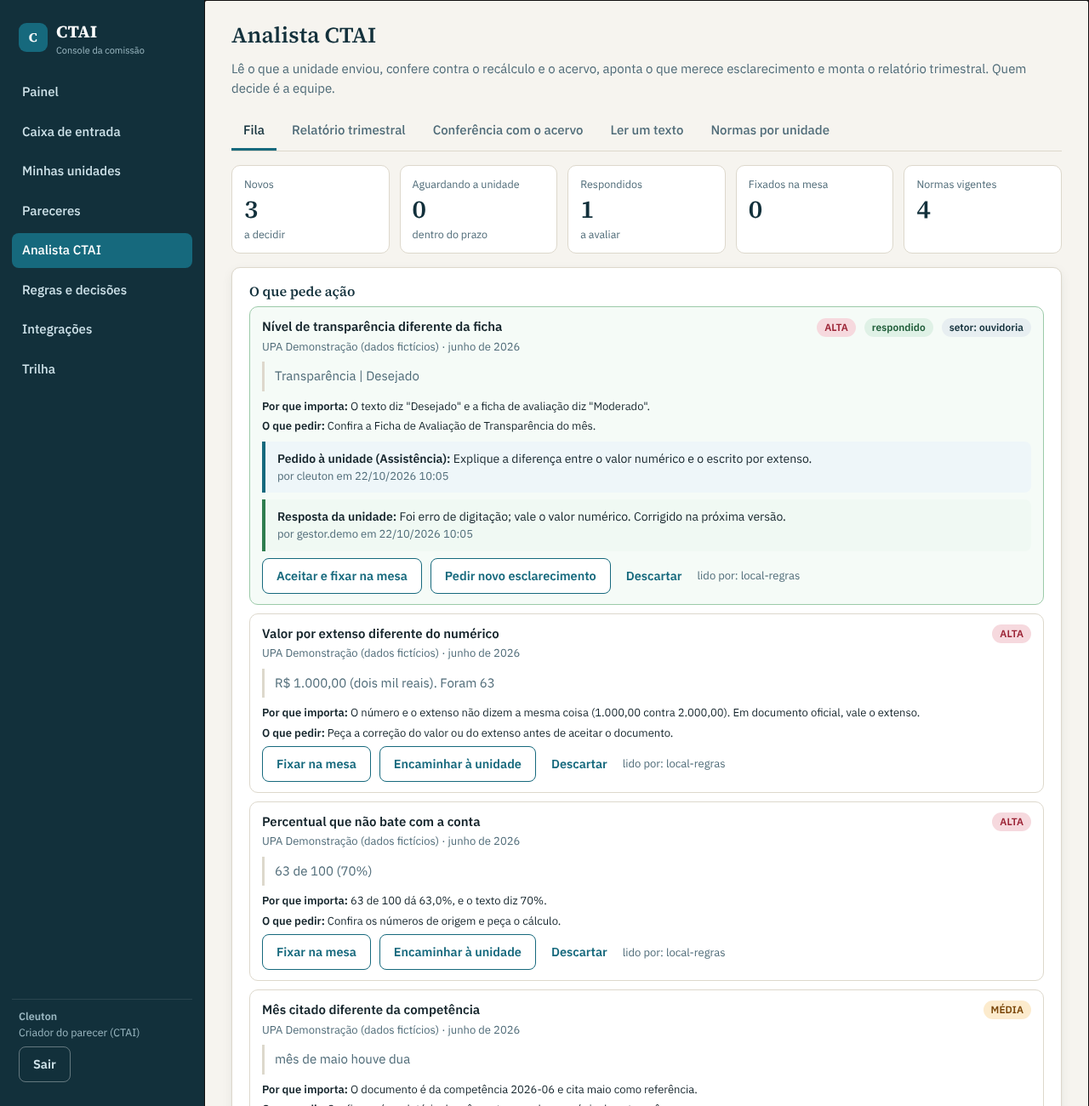
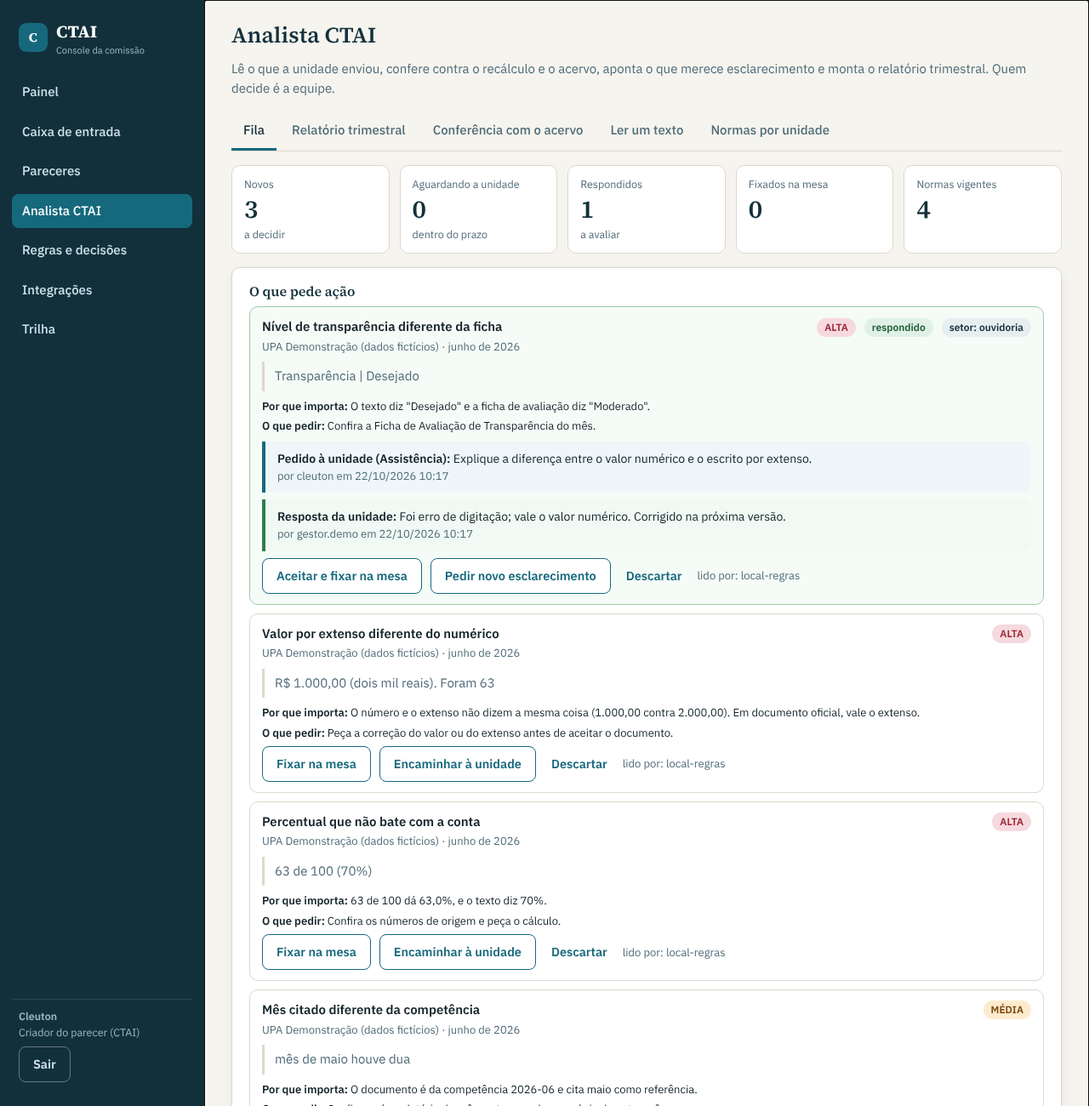
Caixa de entrada unica por unidade: itens, situacao, compartilhamento (liga/desliga) e ausencia (ativar/desativar); Minhas unidades incorporada
Claude-Session: https://claude.ai/code/session_01TePQBrxAiH7ZoxMsBLHw5s

Changed region(s): [[0.0, 0.1538, 0.1875, 0.3077]]

diff --git a/public/js/caixa.js b/public/js/caixa.js
@@ -1,6 +1,6 @@
 (function () {
   'use strict';
-  // Caixa de entrada da CTAI, ausência/substituição e "Minhas unidades".
+  // Caixa de entrada da CTAI: uma tela só, organizada por unidade (itens, situação, compartilhamento) e ausência/substituição.
   const { h, api, fmt, toast, janela, perguntar, selo, aviso, tabela, montar } = window.CTAI;
   const EU = () => window.__eu || {};
   const F = { unidade: '', tipo: '', situacao: 'pendentes' };
@@ -18,8 +18,14 @@
     } catch (_) { /* sem contador */ }
   }
 
+  F.busca = F.busca || ''; F.abertas = F.abertas || {};
+  const SIT = [['pendentes', 'Pendentes'], ['nao_lidos', 'Não lidos'], ['tratados', 'Tratados'], ['todos', 'Todos']];
+  const tomPrazo = (x) => (['vencido', 'entregue com atraso'].includes(x) ? 'alta' : (x === 'a vencer' ? 'atencao' : 'ok'));
+  const norm = (x) => String(x || '').normalize('NFD').replace(/[\u0300-\u036f]/g, '').toLowerCase();
+
+  // Caixa de entrada única: um bloco por unidade, com tudo o que chegou, a situação e quem acompanha.
   async function caixa() {
-    const d = await api('GET', '/api/caixa' + qs(F));
+    const d = await api('GET', '/api/caixa/unidades' + qs({ tipo: F.tipo, situacao: F.situacao === '' ? 'todos' : F.situacao }));
     const s = await api('GET', '/api/caixa/substituicoes');
     const rs = await api('GET', '/api/caixa/resumo');
     const refazer = () => { caixa(); atualizarContador(); };
@@ -50,51 +56,94 @@
         h('button', { class: 'leve', onclick: () => redirecionar(i) }, 'Redirecionar'), h('button', { class: 'leve', onclick: () => historico(i) }, 'Histórico')));
     const opc = (id, rot, lista, v, fn) => h('div', { class: 'campo filtro' }, h('label', { for: id }, rot), h('select', { id, onchange: (e) => fn(e.target.value) }, lista.map(([k, t]) => h('option', Object.assign({ value: k }, String(k) === String(v) ? { selected: true } : {}), t))));
 
-    // substituição
+
+    // ---- Compartilhamento: liga/desliga por colega, dentro do bloco da unidade ----
+    const compartilhar = async (u, p, ligado) => {
+      try { await api('PUT', '/api/caixa/unidades/' + encodeURIComponent(u.contrato_id) + '/compartilhar/' + p.usuario_id, { ligado }); toast(ligado ? p.nome + ' passa a acompanhar ' + u.unidade + '.' : p.nome + ' deixa de acompanhar ' + u.unidade + '.'); } catch (e) { toast(e.message, true); }
+      refazer();
+    };
+    const interruptor = (u, p) => {
+      const ligado = u.equipe.includes(p.usuario_id);
+      const bloqueado = !u.pode_compartilhar || (!p.tem_carteira && !ligado);
+      const i = h('input', { type: 'checkbox', role: 'switch', class: 'cx-compart', 'data-pessoa': p.usuario_id, disabled: bloqueado, onchange: (e) => compartilhar(u, p, e.target.checked) });
+      i.checked = ligado;
+      return h('label', { class: 'ck interruptor' + (bloqueado ? ' mudo' : '') }, i, ' ', p.nome + (p.usuario_id === d.eu ? ' (você)' : ''), !p.tem_carteira ? h('span', { class: 'peq' }, ' · vê todas, sem carteira') : null);
+    };
+
+    // ---- Bloco de uma unidade ----
+    const bloco = (u) => {
+      const abertoPadrao = u.nao_lidos > 0;
+      const aberto = F.abertas[u.contrato_id] === undefined ? abertoPadrao : F.abertas[u.contrato_id];
+      const pz = u.pior_prazo;
+      const det = h('details', { class: 'cartao un-bloco', 'data-contrato': u.contrato_id },
+        h('summary', null, h('span', { class: 'un-nome' }, h('strong', null, u.unidade), h('span', { class: 'mudo peq' }, ' ' + ([u.tipo, u.municipio].filter(Boolean).join(' · ')))),
+          h('span', { class: 'un-selos' }, selo(u.fase, ''), pz ? selo('Prazo ' + pz.canal + ' ' + pz.situacao, tomPrazo(pz.situacao)) : null, u.sem_gestor ? selo('aguardando gestor', 'atencao') : null,
+            u.nao_lidos ? selo(u.nao_lidos + ' não lido(s)', 'alta') : null, selo(u.itens.length + ' item(ns)', u.itens.length ? 'atencao' : 'ok'))),
+        h('div', { class: 'un-corpo' },
+          h('div', { class: 'linha espaco' }, h('p', { class: 'mudo peq', style: 'margin:0' }, 'Última entrega: ' + (u.ultima_entrega ? fmt.data(u.ultima_entrega) : 'nenhuma ainda') + ' · Achados abertos: ' + u.achados.abertos + ' · Divergências abertas: ' + u.divergencias_abertas),
+            h('a', { class: 'btn sec', href: u.link }, 'Abrir conferência')),
+          u.itens.length ? u.itens.map(card) : h('p', { class: 'mudo' }, 'Nada neste filtro para esta unidade.'),
+          h('div', { class: 'compart' }, h('strong', null, 'Quem acompanha esta unidade'),
+            h('div', { class: 'interruptores' }, d.pessoas.map((p) => interruptor(u, p))),
+            u.pode_compartilhar ? null : h('p', { class: 'mudo peq', style: 'margin:4px 0 0' }, 'Só quem acompanha a unidade (ou a superintendência) muda o compartilhamento.'))));
+      if (aberto) det.open = true;
+      det.addEventListener('toggle', () => { F.abertas[u.contrato_id] = det.open; });
+      return det;
+    };
+
+    // ---- Ausência / substituição (liga e desliga) ----
     const pessoas = s.pessoas;
     const ehSuper = ['superintendente', 'admin'].includes(EU().perfil);
     const hoje = new Date().toISOString().slice(0, 10);
-    const f = { de: h('select', { id: 'sb-de' }, pessoas.map((p) => h('option', Object.assign({ value: p.usuario_id }, p.usuario_id === EU().usuario_id ? { selected: true } : {}), p.nome))),
-      para: h('select', { id: 'sb-para' }, pessoas.filter((p) => p.usuario_id !== EU().usuario_id).map((p) => h('option', { value: p.usuario_id }, p.nome))),
-      desde: h('input', { type: 'date', id: 'sb-desde', value: hoje }), ate: h('input', { type: 'date', id: 'sb-ate' }), motivo: h('input', { type: 'text', id: 'sb-motivo', placeholder: 'Ex.: férias' }) };
-    const criarSub = async () => {
-      try { await api('POST', '/api/caixa/substituicoes', { de_usuario_id: ehSuper ? Number(f.de.value) : undefined, para_usuario_id: Number(f.para.value), desde: f.desde.value, ate: f.ate.value, motivo: f.motivo.value }); toast('Caixa redirecionada.'); refazer(); } catch (e) { toast(e.message, true); }
+    const minhas = s.substituicoes.filter((x) => ehSuper || x.de_usuario_id === EU().usuario_id);
+    const ativas = minhas.filter((x) => ['em vigor', 'agendada'].includes(x.situacao));
+    const ativarAusencia = async (modelo) => {
+      const de = h('select', { id: 'sb-de' }, pessoas.map((p) => h('option', Object.assign({ value: p.usuario_id }, p.usuario_id === (modelo ? modelo.de_usuario_id : EU().usuario_id) ? { selected: true } : {}), p.nome)));
+      const para = h('select', { id: 'sb-para' }, pessoas.filter((p) => p.usuario_id !== EU().usuario_id || ehSuper).map((p) => h('option', Object.assign({ value: p.usuario_id }, modelo && p.usuario_id === modelo.para_usuario_id ? { selected: true } : {}), p.nome)));
+      const desde = h('input', { type: 'date', id: 'sb-desde', value: modelo && modelo.desde > hoje ? modelo.desde : hoje }), ate = h('input', { type: 'date', id: 'sb-ate', value: modelo ? modelo.ate : '' });
+      const motivo = h('input', { type: 'text', id: 'sb-motivo', placeholder: 'Ex.: férias', value: modelo ? (modelo.motivo || '') : '' });
+      const campo = (id, r, el) => h('div', { class: 'campo' }, h('label', { for: id }, r), el);
+      const r = await janela('Ativar ausência', h('div', null, h('p', { class: 'mudo peq' }, 'Os itens novos vão para o substituto, marcados "em substituição de ...", e ele(a) passa a abrir as unidades durante o período.'),
+        ehSuper ? campo('sb-de', 'Caixa de', de) : null, campo('sb-para', 'Substituto', para), campo('sb-desde', 'De', desde), campo('sb-ate', 'Até', ate), campo('sb-motivo', 'Motivo', motivo)),
+        [{ rotulo: 'Cancelar', valor: null, sec: true }, { rotulo: 'Ativar', valor: 'ok' }]);
+      if (r !== 'ok') return;
+      try { await api('POST', '/api/caixa/substituicoes', { de_usuario_id: ehSuper ? Number(de.value) : undefined, para_usuario_id: Number(para.value), desde: desde.value, ate: ate.value, motivo: motivo.value }); toast('Ausência ativada.'); refazer(); } catch (e) { toast(e.message, true); }
     };
-    montar(h('div', { class: 'topo' }, h('div', null, h('h1', null, 'Caixa de entrada'), h('p', null, 'Tudo que chegou das unidades e o que está a vencer, nas unidades da sua carteira. Quem divide a unidade com você recebe os mesmos itens; o primeiro que tratar marca para todos.'))),
+    const desativar = async (x) => { try { await api('DELETE', '/api/caixa/substituicoes/' + x.subst_id); toast('Ausência desativada.'); refazer(); } catch (e) { toast(e.message, true); } };
+    const painelAusencia = h('div', { class: 'cartao', id: 'cx-subst', style: 'padding:10px 14px' },
+      h('div', { class: 'linha espaco' }, h('div', null, h('strong', null, 'Ausência / substituição '), ativas.length ? selo('ativa', 'ok') : selo('desligada', '')),
+        ativas.length ? null : h('button', { class: 'sec', id: 'sb-ativar', onclick: () => ativarAusencia(null) }, 'Ativar ausência')),
+      ativas.map((x) => h('div', { class: 'linha espaco', style: 'margin-top:8px' }, h('span', { class: 'peq' }, (ehSuper ? x.de_nome + ' → ' : 'Caixa → ') + x.para_nome + ' · ' + dataBr(x.desde) + ' a ' + dataBr(x.ate) + (x.motivo ? ' · ' + x.motivo : '')),
+        h('button', { class: 'sec', onclick: () => desativar(x) }, 'Desativar'))),
+      minhas.filter((x) => !['em vigor', 'agendada'].includes(x.situacao)).slice(0, 3).map((x) => h('div', { class: 'linha espaco mudo peq', style: 'margin-top:6px' }, h('span', null, (ehSuper ? x.de_nome + ' → ' : '') + x.para_nome + ' · ' + dataBr(x.desde) + ' a ' + dataBr(x.ate) + ' · ' + x.situacao),
+        x.ate >= hoje && !ativas.length ? h('button', { class: 'leve', onclick: () => ativarAusencia(x) }, 'Reativar') : null)));
+
+    // ---- Lista de unidades (com busca na hora) ----
+    const lista = h('div', { id: 'cx-lista' });
+    const desenharLista = () => {
+      const q = norm(F.busca);
+      const un = d.unidades.filter((u) => !q || norm(u.unidade + ' ' + (u.municipio || '')).includes(q));
+      const vazio = d.geral.length === 0 && !un.length;
+      lista.replaceChildren(...un.map(bloco).concat([
+        d.geral.length && !q ? h('div', { class: 'cartao' }, h('h3', null, 'Geral (sem unidade)'), d.geral.map(card)) : null,
+        vazio ? h('div', { class: 'cartao' }, h('p', { class: 'mudo' }, 'Nenhuma unidade encontrada.')) : null].filter(Boolean)));
+    };
+    const busca = h('input', { type: 'search', id: 'cx-busca', placeholder: 'Buscar unidade ou município…', value: F.busca, 'aria-label': 'Buscar unidade', oninput: (e) => { F.busca = e.target.value; desenharLista(); } });
+    desenharLista();
+
+    montar(h('div', { class: 'topo' }, h('div', null, h('h1', null, 'Caixa de entrada'), h('p', null, d.todas ? 'Tudo que chegou das unidades, por unidade. Você vê todas (sem carteira definida).' : 'Tudo que chegou das unidades da sua carteira, reunido por unidade. Quem divide a unidade com você recebe os mesmos itens; o primeiro que tratar marca para todos.'))),
       h('div', { class: 'cartao cx-resumo', id: 'cx-resumo', style: 'padding:10px 14px' }, h('div', { class: 'linha', style: 'gap:18px;flex-wrap:wrap' },
         faixa('nao_lidos', rs.naoLidos, 'não lidos', rs.naoLidos ? 'atencao' : '', '', 'nao_lidos'), faixa('prazos', rs.prazos_vencidos, 'prazo(s) vencido(s)', rs.prazos_vencidos ? 'alta' : '', 'prazo_vencido'),
         faixa('prazos2', rs.prazos_a_vencer, 'a vencer', rs.prazos_a_vencer ? 'atencao' : '', 'prazo_vencer'), faixa('resp', rs.respostas, 'achado(s) com resposta', rs.respostas ? 'atencao' : '', 'resposta'),
         faixa('semg', rs.sem_gestor, 'unidade(s) sem gestor', rs.sem_gestor ? 'atencao' : '', 'sem_gestor'))),
       h('div', { class: 'filtros cartao' },
-        opc('cx-f-un', 'Unidade', [['', 'Todas']].concat(d.unidades.map((u) => [u.contrato_id, u.unidade])), F.unidade, (v) => { F.unidade = v; caixa(); }),
+        h('div', { class: 'campo filtro' }, h('label', { for: 'cx-busca' }, 'Unidade'), busca),
         opc('cx-f-tipo', 'Tipo', [['', 'Todos']].concat(Object.entries(d.tipos)), F.tipo, (v) => { F.tipo = v; caixa(); }),
-        opc('cx-f-sit', 'Situação', [['pendentes', 'Pendentes'], ['nao_lidos', 'Não lidos'], ['tratados', 'Tratados'], ['', 'Todos']], F.situacao, (v) => { F.situacao = v; caixa(); }),
+        opc('cx-f-sit', 'Situação', SIT, F.situacao === '' ? 'todos' : F.situacao, (v) => { F.situacao = v; caixa(); }),
         d.contagem.naoLidos ? h('button', { class: 'sec', id: 'cx-todos-lidos', onclick: async () => { await api('POST', '/api/caixa/lidos', {}); refazer(); } }, 'Marcar todos como lidos') : null),
-      h('div', { class: 'kpis' }, h('div', { class: 'kpi' + (d.contagem.naoLidos ? ' atencao' : '') }, h('div', { class: 'r' }, 'Não lidos'), h('div', { class: 'num-grande' }, String(d.contagem.naoLidos))), h('div', { class: 'kpi' }, h('div', { class: 'r' }, 'Pendentes'), h('div', { class: 'num-grande' }, String(d.contagem.pendentes)))),
-      h('div', { id: 'cx-lista' }, d.itens.length ? d.itens.map(card) : h('div', { class: 'cartao' }, h('p', { class: 'mudo' }, 'Nada por aqui para este filtro.'))),
-      h('div', { class: 'cartao', id: 'cx-subst' }, h('h2', { style: 'margin-top:0' }, 'Ausência ou substituição'),
-        h('p', { class: 'mudo peq' }, 'Redireciona a caixa para outra pessoa por um período. Os itens novos vão para o substituto, marcados "em substituição de ' + (EU().nome || 'você') + '", e ele(a) passa a abrir as unidades durante o período.'),
-        h('div', { class: 'duas' }, ehSuper ? h('div', { class: 'campo' }, h('label', { for: 'sb-de' }, 'Caixa de'), f.de) : null, h('div', { class: 'campo' }, h('label', { for: 'sb-para' }, 'Substituto'), f.para),
-          h('div', { class: 'campo' }, h('label', { for: 'sb-desde' }, 'De'), f.desde), h('div', { class: 'campo' }, h('label', { for: 'sb-ate' }, 'Até'), f.ate), h('div', { class: 'campo' }, h('label', { for: 'sb-motivo' }, 'Motivo'), f.motivo)),
-        h('button', { id: 'sb-criar', onclick: criarSub }, 'Redirecionar a caixa'),
-        s.substituicoes.length ? tabela([{ t: 'Caixa de' }, { t: 'Substituto' }, { t: 'Período' }, { t: 'Situação' }, { t: '' }], s.substituicoes.map((x) => [x.de_nome, x.para_nome, dataBr(x.desde) + ' a ' + dataBr(x.ate), selo(x.situacao, x.situacao === 'em vigor' ? 'ok' : ''),
-          ['em vigor', 'agendada'].includes(x.situacao) ? h('button', { class: 'leve', onclick: async () => { try { await api('DELETE', '/api/caixa/substituicoes/' + x.subst_id); refazer(); } catch (e) { toast(e.message, true); } } }, 'Cancelar') : ''])) : null));
+      painelAusencia, lista);
     atualizarContador();
   }
 
-  async function minhas() {
-    const d = await api('GET', '/api/caixa/minhas-unidades');
-    const tomPrazo = (s) => (['vencido', 'entregue com atraso'].includes(s) ? 'alta' : (s === 'a vencer' ? 'atencao' : 'ok'));
-    montar(h('div', { class: 'topo' }, h('div', null, h('h1', null, 'Minhas unidades'), h('p', null, d.todas ? 'Você vê todas as unidades (sem carteira definida).' : 'Unidades da sua carteira. Clique para abrir.'))),
-      d.unidades.length ? h('div', { class: 'unidades-grid', id: 'mu-lista' }, d.unidades.map((u) => {
-        const p = u.pior_prazo;
-        return h('a', { class: 'cartao un-card', href: u.link, 'data-contrato': u.contrato_id, style: 'text-decoration:none;color:inherit;display:block' },
-          h('h3', { style: 'margin:0' }, u.unidade), h('p', { class: 'mudo peq' }, [u.tipo, u.municipio].filter(Boolean).join(' · ') || ' '),
-          h('div', null, selo(u.fase, ''), ' ', p ? selo('Prazo ' + p.canal + ' ' + p.situacao, tomPrazo(p.situacao)) : null, ' ', u.sem_gestor ? selo('aguardando gestor', 'atencao') : null),
-          h('p', { class: 'peq' }, 'Pendências na caixa: ', h('strong', null, String(u.pendencias_caixa)), ' · Achados abertos: ', h('strong', null, String(u.achados.abertos)), ' · Divergências abertas: ', h('strong', null, String(u.divergencias_abertas))),
-          h('p', { class: 'mudo peq' }, 'Última entrega: ' + (u.ultima_entrega ? fmt.data(u.ultima_entrega) : 'nenhuma ainda')));
-      })) : h('div', { class: 'cartao' }, h('p', { class: 'mudo' }, 'Nenhuma unidade na sua carteira.')));
-  }
-
-  window.CTAI_CAIXA = { rotas: [['/caixa', caixa], ['/minhas-unidades', minhas]], atualizarContador };
+  window.CTAI_CAIXA = { rotas: [['/caixa', caixa], ['/minhas-unidades', () => { location.replace('#/caixa'); }]], atualizarContador };
 })();

diff --git a/server/caixa.js b/server/caixa.js
@@ -306,6 +306,52 @@ function minhasUnidades(db, u) {
   return { unidades, trimestre: p.trimestre, todas: !perm };
 }
 
+// ---------- Visão única: caixa de entrada organizada por unidade ----------
+// Cada unidade da carteira reúne o que chegou (itens), a situação (fase, prazos, achados) e quem a acompanha.
+function visaoUnidades(db, u, f) {
+  f = f || {};
+  const base = minhasUnidades(db, u);
+  const lista = listar(db, u, { tipo: f.tipo, situacao: f.situacao === undefined ? 'pendentes' : f.situacao });
+  const porUn = {}, geral = [];
+  for (const i of lista.itens) { if (i.contrato_id) (porUn[i.contrato_id] = porUn[i.contrato_id] || []).push(i); else geral.push(i); }
+  const meus = CART.doUsuario(db, u.usuario_id);
+  const perm = permitido(db, u);
+  const pessoas = db.all("SELECT usuario_id, nome, login, perfil FROM usuarios WHERE ativo = 1 AND perfil IN ('criador','colega') ORDER BY nome")
+    .map((p) => Object.assign(p, { tem_carteira: CART.doUsuario(db, p.usuario_id).length > 0 }));
+  const unidades = base.unidades.map((x) => {
+    const itens = porUn[x.contrato_id] || [];
+    const equipe = CART.responsaveis(db, x.contrato_id).map((r) => r.usuario_id);
+    return Object.assign({}, x, { itens, nao_lidos: itens.filter((i) => !i.lido && !i.tratado).length, urgencia: itens.reduce((m, i) => Math.max(m, i.urgencia || 0), 0), equipe,
+      pode_compartilhar: ehSuper(u) || !perm || meus.includes(x.contrato_id) });
+  }).sort((a, b) => (b.urgencia - a.urgencia) || (b.pendencias_caixa - a.pendencias_caixa) || a.unidade.localeCompare(b.unidade));
+  return { unidades, geral, contagem: lista.contagem, tipos: lista.tipos, pessoas, todas: base.todas, eu: u.usuario_id };
+}
+
+// Liga ou desliga o compartilhamento de uma unidade com um colega (entra ou sai da carteira dele). Fica na trilha e no histórico da carteira.
+function compartilhar(db, u, contratoId, usuarioId, ligado) {
+  const un = db.get('SELECT contrato_id, unidade FROM contratos WHERE contrato_id = ?', contratoId);
+  if (!un) throw erro(404, 'Unidade não encontrada.');
+  const perm = permitido(db, u);
+  if (!ehSuper(u) && perm && !CART.doUsuario(db, u.usuario_id).includes(contratoId)) throw erro(403, 'Só quem acompanha a unidade pode mudar o compartilhamento dela.');
+  const alvo = db.get('SELECT * FROM usuarios WHERE usuario_id = ? AND ativo = 1', Number(usuarioId));
+  if (!alvo || !CART.ELEGIVEIS.includes(alvo.perfil)) throw erro(400, 'Escolha um criador ou colega ativo da CTAI.');
+  const atuais = CART.doUsuario(db, alvo.usuario_id);
+  if (ligado && !atuais.length) throw erro(400, alvo.nome + ' ainda não tem carteira e vê todas as unidades. Defina a carteira dessa pessoa em Gestão CTAI.');
+  const ja = atuais.includes(contratoId);
+  if (!!ligado === ja) return { ok: true, sem_mudanca: true };
+  if (!ligado && !ehSuper(u) && CART.responsaveis(db, contratoId).length <= 1) throw erro(400, 'A unidade ficaria sem ninguém. Inclua outra pessoa antes de retirar esta.');
+  const novos = ligado ? atuais.concat([contratoId]) : atuais.filter((c) => c !== contratoId);
+  db.tx(() => {
+    CART.definir(db, u.login, alvo.usuario_id, novos, 'Compartilhamento pelo analista (' + u.login + ')');
+    if (ligado) {
+      db.run('INSERT OR IGNORE INTO caixa_destinos (item_id, usuario_id) SELECT item_id, ? FROM caixa_itens WHERE contrato_id = ? AND tratado_por IS NULL', alvo.usuario_id, contratoId);
+      criar(db, { chave: 'compart:' + contratoId + ':' + alvo.usuario_id + ':' + Date.now(), tipo: 'redirecionado', contrato_id: contratoId, titulo: 'Unidade compartilhada com você: ' + un.unidade,
+        texto: u.nome + ' incluiu você no acompanhamento desta unidade. Os itens pendentes dela já estão na sua caixa.', link: '#/caixa', destinos: [{ usuario_id: alvo.usuario_id }] }, u.login);
+    }
+  });
+  return { ok: true };
+}
+
 // ---------- Entregas por carteira (Gestão CTAI) ----------
 const diasNaoLido = (db) => Math.max(1, Number(CART.cfg(db, 'caixa_dias_nao_lido', '3')) || 3);
 function entregas(db, filtro) {
@@ -364,5 +410,5 @@ function tempos(db, usuarioId, de, ate, contrato) {
 // Ponto de extensão (aviso por e-mail): nada é enviado hoje. Para ligar no futuro, registre aqui uma função que receba
 // { item_id, tipo, unidade, titulo, destinatarios:[{login,nome}] } — ela é chamada depois que o item é criado.
 
-module.exports = { TIPOS, PERFIS_CAIXA, criar, eventoEnvio, eventoResposta, eventoMinuta, sincronizar, listar, resumo, contador, detalhe, marcarLido, marcarTodosLidos, tratar, reabrir, redirecionarItem,
+module.exports = { visaoUnidades, compartilhar, TIPOS, PERFIS_CAIXA, criar, eventoEnvio, eventoResposta, eventoMinuta, sincronizar, listar, resumo, contador, detalhe, marcarLido, marcarTodosLidos, tratar, reabrir, redirecionarItem,
   criarSubstituicao, cancelarSubstituicao, listarSubstituicoes, minhasUnidades, entregas, tempos, diasNaoLido, destinatariosDaUnidade, avisos };

diff --git a/test/caixa.test.js b/test/caixa.test.js
@@ -201,3 +201,31 @@ test('painel reduzido: /api/meta informa a configuração; resumo da caixa respe
   assert.ok(r.prazos_vencidos >= 1);
   assert.equal((await gestor.get('/api/caixa/resumo')).status, 403);
 });
+
+test('caixa única por unidade: itens agrupados, equipe e compartilhamento ligado/desligado pelo analista', async () => {
+  const v1 = (await colega1.get('/api/caixa/unidades')).json;
+  const demo = v1.unidades.find((u) => u.contrato_id === DEMO);
+  assert.ok(demo, 'a unidade da carteira aparece como bloco');
+  assert.ok(demo.itens.length >= 1 && demo.itens.every((i) => i.contrato_id === DEMO), 'os itens ficam dentro da unidade');
+  assert.deepEqual([...demo.equipe].sort(), [ids.cleuton, ids.colega1].sort());
+  assert.equal(demo.pode_compartilhar, true);
+  assert.equal((await colega2.get('/api/caixa/unidades')).json.unidades.some((u) => u.contrato_id === DEMO), false, 'quem não acompanha não vê o bloco');
+
+  const rota = (c, ligado) => c.put('/api/caixa/unidades/' + DEMO + '/compartilhar/' + ids.colega2, { ligado });
+  assert.equal((await rota(colega2, true)).status, 403, 'quem não acompanha a unidade não mexe no compartilhamento dela');
+  assert.equal((await rota(colega1, true)).status, 200);
+  const dep = (await colega2.get('/api/caixa/unidades')).json;
+  const blocoC2 = dep.unidades.find((u) => u.contrato_id === DEMO);
+  assert.ok(blocoC2 && blocoC2.itens.length >= 1, 'o colega incluído já recebe os itens pendentes');
+  assert.ok(dep.geral.concat(blocoC2.itens).some((i) => /compartilhada com você/i.test(i.titulo)) || (await itens(colega2)).itens.some((i) => /compartilhada com você/i.test(i.titulo)), 'recebe o aviso do compartilhamento');
+  assert.ok(S.db.get("SELECT 1 FROM carteira WHERE usuario_id = ? AND contrato_id = ? AND ate IS NULL AND motivo LIKE 'Compartilhamento pelo analista%'", ids.colega2, DEMO), 'fica no histórico da carteira');
+  assert.equal((await rota(colega1, false)).status, 200);
+  assert.equal((await colega2.get('/api/caixa/unidades')).json.unidades.some((u) => u.contrato_id === DEMO), false, 'desligado, o bloco some');
+
+  // não deixa a unidade sem ninguém, e quem sai perde o controle dela
+  const sai = (c, quem) => c.put('/api/caixa/unidades/' + DEMO + '/compartilhar/' + quem, { ligado: false });
+  assert.equal((await sai(cleuton, ids.colega1)).status, 200);
+  assert.equal((await sai(colega1, ids.cleuton)).status, 403);
+  assert.equal((await sai(cleuton, ids.cleuton)).status, 400, 'a unidade ficaria sem ninguém');
+  assert.equal((await cleuton.put('/api/caixa/unidades/' + DEMO + '/compartilhar/' + ids.colega1, { ligado: true })).status, 200, 'volta ao estado anterior');
+});

diff --git a/public/css/app.css b/public/css/app.css
@@ -45,7 +45,7 @@ button:disabled{opacity:.5;cursor:not-allowed}
 .lateral button.sec{background:transparent;color:#cfe3ea;border-color:rgba(255,255,255,.35)}
 button:focus-visible,a:focus-visible,input:focus-visible,select:focus-visible,textarea:focus-visible{outline:3px solid var(--ciano);outline-offset:1px}
 label{display:block;font-weight:500;margin-bottom:4px}
-input[type=text],input[type=password],input[type=number],input[type=date],select,textarea{width:100%;padding:9px 11px;border:1px solid #bfb9aa;border-radius:8px;background:#fff}
+input[type=text],input[type=password],input[type=number],input[type=date],input[type=search],select,textarea{width:100%;padding:9px 11px;border:1px solid #bfb9aa;border-radius:8px;background:#fff}
 textarea{min-height:90px;resize:vertical}
 .campo{margin-bottom:14px}
 .campo .ajuda{font-size:12.5px;color:var(--cinza);margin-top:3px}
@@ -139,3 +139,18 @@ td .linha{flex-wrap:nowrap;white-space:nowrap}
 .lista-un{max-height:230px;overflow:auto;border:1px solid var(--borda);border-radius:8px;padding:4px 10px;background:#fff}
 .lista-un label.ck{margin:0}
 .seletor-un input[type=search]{width:100%;padding:9px 11px;border:1px solid #bfb9aa;border-radius:8px;background:#fff;margin-bottom:6px}
+/* Caixa de entrada única: um bloco por unidade */
+.un-bloco{padding:0}
+.un-bloco>summary{list-style:none;cursor:pointer;display:flex;justify-content:space-between;align-items:center;gap:12px;flex-wrap:wrap;padding:12px 18px}
+.un-bloco>summary::-webkit-details-marker{display:none}
+.un-bloco>summary::before{content:"▸";color:var(--acento);margin-right:8px;font-size:14px}
+.un-bloco[open]>summary::before{content:"▾"}
+.un-bloco>summary{display:flex}
+.un-bloco .un-nome{flex:1 1 280px}
+.un-bloco .un-selos{display:flex;gap:6px;flex-wrap:wrap;align-items:center}
+.un-bloco .un-corpo{padding:0 18px 16px;border-top:1px solid var(--borda)}
+.un-bloco .un-corpo>*{margin-top:10px}
+.un-bloco .cx-item{box-shadow:none;margin-bottom:8px}
+.compart{border-top:1px dashed var(--borda);padding-top:10px}
+.interruptores{display:flex;flex-wrap:wrap;gap:4px 18px;margin-top:4px}
+label.interruptor{display:inline-block;margin:0;padding:4px 0}

diff --git a/test/e2e/run.js b/test/e2e/run.js
@@ -315,11 +315,14 @@ let base;
     await colegaCart.setViewportSize({ width: 1280, height: 1500 }); await limpa(colegaCart); await colegaCart.screenshot({ path: path.join(CAP, '27-caixa-entrada.png') });
     await colegaCart.locator('.cx-tratar').first().click(); await colegaCart.fill('#perg-campo', 'Conferido'); await colegaCart.click('dialog button:has-text("Confirmar")');
     await colegaCart.waitForFunction(() => document.querySelectorAll('.cx-item').length >= 0, null, { timeout: 5000 }); await colegaCart.waitForTimeout(500);
-    await colegaCart.goto(colegaCart.url().split('#')[0] + '#/minhas-unidades'); await colegaCart.waitForSelector('#mu-lista .un-card', { timeout: 8000 });
-    await colegaCart.setViewportSize({ width: 1280, height: 900 }); await limpa(colegaCart); await colegaCart.screenshot({ path: path.join(CAP, '28-minhas-unidades.png') });
+    await colegaCart.goto(colegaCart.url().split('#')[0] + '#/minhas-unidades'); await colegaCart.waitForSelector('#cx-lista .un-bloco', { timeout: 8000 });
+    assert.match(colegaCart.url(), /#\/caixa$/, 'o endereço antigo de Minhas unidades leva à caixa única');
+    assert.ok(await colegaCart.locator('.un-bloco .interruptor').count() >= 1, 'cada unidade mostra quem a acompanha');
+    assert.ok(await colegaCart.locator('#sb-ativar').count() === 1, 'ausência desligada com botão para ativar');
+    await colegaCart.setViewportSize({ width: 1280, height: 1000 }); await limpa(colegaCart); await colegaCart.screenshot({ path: path.join(CAP, '28-caixa-por-unidade.png') });
     await ir(sup, '#/gestao/entregas', '#en-pdf'); await sup.waitForSelector('[data-analista="colega1"]', { timeout: 8000 });
     await sup.setViewportSize({ width: 1280, height: 1100 }); await limpa(sup); await sup.screenshot({ path: path.join(CAP, '29-gestao-entregas.png') });
-    log('caixa de entrada, minhas unidades e entregas por carteira');
+    log('caixa de entrada única por unidade e entregas por carteira');
     // Tela inicial por perfil e configuração de volta (CTAI_PAINEL_ANALISTA)
     CFG.painelAnalista = false;
     const an = await entrar(browser, 'colega1', 1280, true); paginas.push(an);

diff --git a/public/js/ctai.js b/public/js/ctai.js
@@ -560,7 +560,7 @@
     const meta0 = await api('GET', '/api/meta').catch(() => null);
     window.__semPainel = !!(me0 && ['criador', 'colega'].includes(me0.usuario.perfil) && meta0 && !meta0.painelAnalista);
     window.__soGestao = me0 && ['superintendente', 'admin'].includes(me0.usuario.perfil) ? [{ href: '#/gestao', rotulo: 'Gestão CTAI' }] : [];
-    EU = await casca({ titulo: 'CTAI', subtitulo: 'Console da comissão', perfis: ['admin', 'criador', 'colega', 'superintendente'], itens: (window.__semPainel ? [] : [{ href: '#/', rotulo: 'Painel' }]).concat([{ href: '#/caixa', rotulo: 'Caixa de entrada' }, { href: '#/minhas-unidades', rotulo: 'Minhas unidades' }, { href: '#/pareceres', rotulo: 'Pareceres' }, { href: '#/analista', rotulo: 'Analista CTAI' }, { href: '#/regras', rotulo: 'Regras e decisões' }, { href: '#/integracoes', rotulo: 'Integrações' }, { href: '#/trilha', rotulo: 'Trilha' }]).concat(window.__soGestao || []) });
+    EU = await casca({ titulo: 'CTAI', subtitulo: 'Console da comissão', perfis: ['admin', 'criador', 'colega', 'superintendente'], itens: (window.__semPainel ? [] : [{ href: '#/', rotulo: 'Painel' }]).concat([{ href: '#/caixa', rotulo: 'Caixa de entrada' }, { href: '#/pareceres', rotulo: 'Pareceres' }, { href: '#/analista', rotulo: 'Analista CTAI' }, { href: '#/regras', rotulo: 'Regras e decisões' }, { href: '#/integracoes', rotulo: 'Integrações' }, { href: '#/trilha', rotulo: 'Trilha' }]).concat(window.__soGestao || []) });
     if (!EU) return;
     window.__eu = EU;
     window.CTAI_CAIXA.atualizarContador(); setInterval(() => window.CTAI_CAIXA.atualizarContador(), 60000);

diff --git a/server/routes/caixa.js b/server/routes/caixa.js
@@ -14,6 +14,8 @@ module.exports = (db) => {
   r.get('/', antes, (req, res) => res.json(CX.listar(db, req.usuario, { unidade: req.query.unidade, tipo: req.query.tipo, situacao: req.query.situacao })));
   r.get('/resumo', antes, (req, res) => res.json(CX.resumo(db, req.usuario)));
   r.get('/contador', antes, (req, res) => res.json(CX.contador(db, req.usuario)));
+  r.get('/unidades', antes, (req, res) => res.json(CX.visaoUnidades(db, req.usuario, { tipo: req.query.tipo, situacao: req.query.situacao })));
+  r.put('/unidades/:contrato/compartilhar/:usuario', (req, res) => res.json(CX.compartilhar(db, req.usuario, req.params.contrato, req.params.usuario, !!(req.body && req.body.ligado))));
   r.get('/minhas-unidades', (req, res) => res.json(CX.minhasUnidades(db, req.usuario)));
   r.get('/substituicoes', (req, res) => res.json({ substituicoes: CX.listarSubstituicoes(db, req.usuario), pessoas: db.all("SELECT usuario_id, nome, login, perfil FROM usuarios WHERE ativo = 1 AND perfil IN ('criador','colega','superintendente','admin') ORDER BY nome") }));
   r.post('/substituicoes', (req, res) => res.json({ subst_id: CX.criarSubstituicao(db, req.usuario, req.body || {}) }));

diff --git a/public/sw.js b/public/sw.js
@@ -1,5 +1,5 @@
 /* Service worker: guarda só os arquivos estáticos (telas, fontes, estilos). Nenhuma resposta da API é guardada. */
-const VERSAO = 'ctai-v8';
+const VERSAO = 'ctai-v9';
 const ESTATICOS = ['/', '/unidade', '/ctai', '/css/app.css', '/js/core.js', '/js/login.js', '/js/unidade.js', '/js/ctai.js', '/js/usuario-form.js', '/js/gestao.js', '/js/caixa.js', '/icons/icon.svg'];
 self.addEventListener('install', (e) => { e.waitUntil(caches.open(VERSAO).then((c) => c.addAll(ESTATICOS).catch(() => {})).then(() => self.skipWaiting())); });
 self.addEventListener('activate', (e) => { e.waitUntil(caches.keys().then((ks) => Promise.all(ks.filter((k) => k !== VERSAO).map((k) => caches.delete(k)))).then(() => self.clients.claim())); });

diff --git a/docs/MANUAL-CTAI.md b/docs/MANUAL-CTAI.md
@@ -8,18 +8,18 @@ Endereço: `/ctai`. Perfis: **criador** (monta o parecer), **colega** (confere),
 - **Superintendente e administrador:** a tela inicial continua sendo o **Painel**, sem mudança. A visão completa por unidade, prazos e alertas fica no **Gestão CTAI**.
 - **Para voltar atrás:** coloque `CTAI_PAINEL_ANALISTA=sim` no `.env` (no Render, em Environment) e reinicie. O item Painel e a tela inicial antiga voltam para criadores e colegas. Padrão: `nao`.
 
-## Caixa de entrada e Minhas unidades (todos da CTAI)
+## Caixa de entrada, por unidade (todos da CTAI)
 
-**Caixa de entrada** (menu, com o número de não lidos). Um item para cada fato que pede atenção: relatório recebido, reenvio ou correção, resposta da unidade a um esclarecimento, prazo do SEI (dia 20) ou do SIMAS (dia 25) **a vencer** ou **vencido**, minuta aguardando a sua conferência, unidade sem gestor, unidade sem carteira (só a superintendente recebe esta) e item redirecionado a você.
+**Caixa de entrada** (menu, com o número de não lidos). É uma tela só, **organizada por unidade**: cada unidade da sua carteira é um bloco com a fase, o prazo, os achados abertos e **tudo o que chegou dela**. Os blocos com itens não lidos já vêm abertos; os demais abrem com um clique. A busca por unidade ou município filtra na hora. Itens sem unidade ficam em "Geral". Dentro de cada bloco, em **Quem acompanha esta unidade**, cada colega tem um interruptor: **ligado** = a unidade entra na carteira dele e ele passa a receber os mesmos itens (os pendentes já chegam); **desligado** = sai. Quem acompanha a unidade pode mudar isso, tudo fica na trilha e no histórico da carteira (a superintendente vê em Gestão CTAI > Carteira), e a unidade não pode ficar sem ninguém. Quem ainda não tem carteira vê todas as unidades e não aparece com interruptor; defina a carteira dele em Gestão CTAI. Um item para cada fato que pede atenção: relatório recebido, reenvio ou correção, resposta da unidade a um esclarecimento, prazo do SEI (dia 20) ou do SIMAS (dia 25) **a vencer** ou **vencido**, minuta aguardando a sua conferência, unidade sem gestor, unidade sem carteira (só a superintendente recebe esta) e item redirecionado a você.
 - Quem recebe: **quem tem a unidade na carteira**. Co-responsáveis recebem todos os itens. Unidade sem carteira cai na caixa da superintendente. Ninguém vê item de unidade fora da sua carteira (nem pelo endereço); superintendente e administrador veem o que é deles.
 - Cada item mostra unidade, tipo, competência, data, se foi lido (por pessoa) e se foi **tratado** (quem e quando). **Abrir** leva direto à tela certa e marca como lido. **Marcar como tratado** vale para todos os destinatários; o primeiro que tratar marca, quem tentar depois é avisado. **Reabrir** é possível e o **Histórico** guarda tudo (criado, lido, tratado, reaberto, redirecionado).
-- Filtros por unidade, tipo e situação (pendentes, não lidos, tratados). A lista vem ordenada por urgência: prazo vencido, prazo a vencer, resposta da unidade, minuta, reenvio, relatório recebido. Avisos de prazo e de unidade sem gestor/carteira fecham sozinhos quando a situação se resolve.
+- Filtros por unidade (busca), tipo e situação (pendentes, não lidos, tratados, todos). Dentro de cada unidade a lista vem ordenada por urgência: prazo vencido, prazo a vencer, resposta da unidade, minuta, reenvio, relatório recebido. Avisos de prazo e de unidade sem gestor/carteira fecham sozinhos quando a situação se resolve.
 - **Redirecionar item**: envia um item a outra pessoa (ela precisa ter a unidade na carteira) e ela recebe um aviso "redirecionado a você".
 - Os textos da caixa trazem só unidade, tipo, competência e versão. Nada de conteúdo de resposta ou dado de paciente.
-- **Ausência ou substituição**: no fim da própria caixa. Escolha o substituto e o período (a superintendente pode fazer isso para qualquer pessoa; cada analista, só para si). Itens **novos** do período vão para o substituto, marcados "em substituição de fulano", e ele(a) passa a abrir as unidades enquanto durar. Dá para cancelar. Tudo na trilha.
+- **Ausência ou substituição**: faixa no topo da caixa, com liga e desliga. **Ativar ausência** pede o substituto e o período (a superintendente pode fazer para qualquer pessoa; cada analista, só para si). Itens **novos** do período vão para o substituto, marcados "em substituição de fulano", e ele(a) passa a abrir as unidades durante o período. **Desativar** cancela na hora, e **Reativar** repete os dados de uma ausência anterior que ainda não terminou.
 - Aviso por e-mail **não existe** nesta versão. Há um ponto de extensão (`avisos.aoCriar` em `server/caixa.js`) para ligar no futuro.
 
-**Minhas unidades** (menu): as unidades da sua carteira com fase da conferência, pior prazo (20/25), pendências na caixa, achados e divergências abertos e data da última entrega. Cada cartão abre a unidade.
+A antiga tela **Minhas unidades** foi incorporada à Caixa de entrada (o endereço antigo leva para ela).
 
 ## Menu
 **Painel · Pareceres · Analista CTAI · Regras e decisões · Integrações · Trilha · Gestão CTAI** (superintendente e admin) **· Administração** (só admin).

diff --git a/docs/STATUS.md b/docs/STATUS.md
@@ -21,7 +21,7 @@ Primeira versão para teste. Funciona de ponta a ponta com **dados fictícios**.
 | **Aba Acessos** (Gestão CTAI) | entradas, falhas, bloqueios, saídas, origem, IP mascarado, agente, cadastros dos gestores; filtros; CSV e PDF; sem edição | `test/equipe-acessos.test.js` + E2E |
 | **Deploy no Render** (21/10/2026) | `render.yaml` (Docker, Starter, disco de 1 GB em `/dados`, saúde em `/api/saude`), `CTAI_IPS_INTERNOS` com IP de cliente seguro atrás de proxy (`CTAI_PROXY_SALTOS`, `CTAI_IP_CABECALHO`, `CTAI_PROXIES_CONFIAVEIS`), `/api/origem` para conferir, backup do banco pelo admin, guia `docs/GUIA-RENDER.md` | `test/exposicao-ips.test.js` (8: IP na lista, fora, forjado, indeterminado, IPv6/CIDR, proxies) |
 | **Importação em lote de unidades e carteira** (21/10/2026) | CSV (tipo, unidade, município, analista), modelo fictício, prévia sem gravar, relatório de problemas, decisões (analista inexistente, unidade em duas carteiras), modos acrescentar/substituir, gravação atômica, trilha e histórico, reimportação sem duplicar, unidade nova "aguardando gestor" na fila do Painel | `test/importacao-carteira.test.js` + E2E |
-| **Caixa de entrada da CTAI** (21/10/2026) | itens por evento (relatório/reenvio, resposta da unidade, prazos 20/25, minuta, sem gestor/carteira, redirecionado), por carteira com co-responsáveis, lido por pessoa, tratado para todos com histórico, substituição por período, Minhas unidades, aba Entregas por carteira (destaque de não lidos, PDF) e tempos de leitura/tratamento na Produção; aviso por e-mail **fora** (ponto de extensão) | `test/caixa.test.js` + E2E |
+| **Caixa de entrada da CTAI** (21/10/2026; 22/10: tela única por unidade, com compartilhamento e ausência liga/desliga) | itens por evento (relatório/reenvio, resposta da unidade, prazos 20/25, minuta, sem gestor/carteira, redirecionado), por carteira com co-responsáveis, lido por pessoa, tratado para todos com histórico, substituição por período, Minhas unidades, aba Entregas por carteira (destaque de não lidos, PDF) e tempos de leitura/tratamento na Produção; aviso por e-mail **fora** (ponto de extensão) | `test/caixa.test.js` + E2E |
 | **Painel reduzido** (21/10/2026) | analistas (criador/colega) sem item Painel e com início na Caixa de entrada (faixa de resumo clicável); superintendente/admin mantêm o Painel; `CTAI_PAINEL_ANALISTA=sim` desfaz; link antigo redireciona | `test/caixa.test.js` + E2E |
 | Dados de demonstração | contrato fictício, recriar e apagar | testes + E2E |
 
